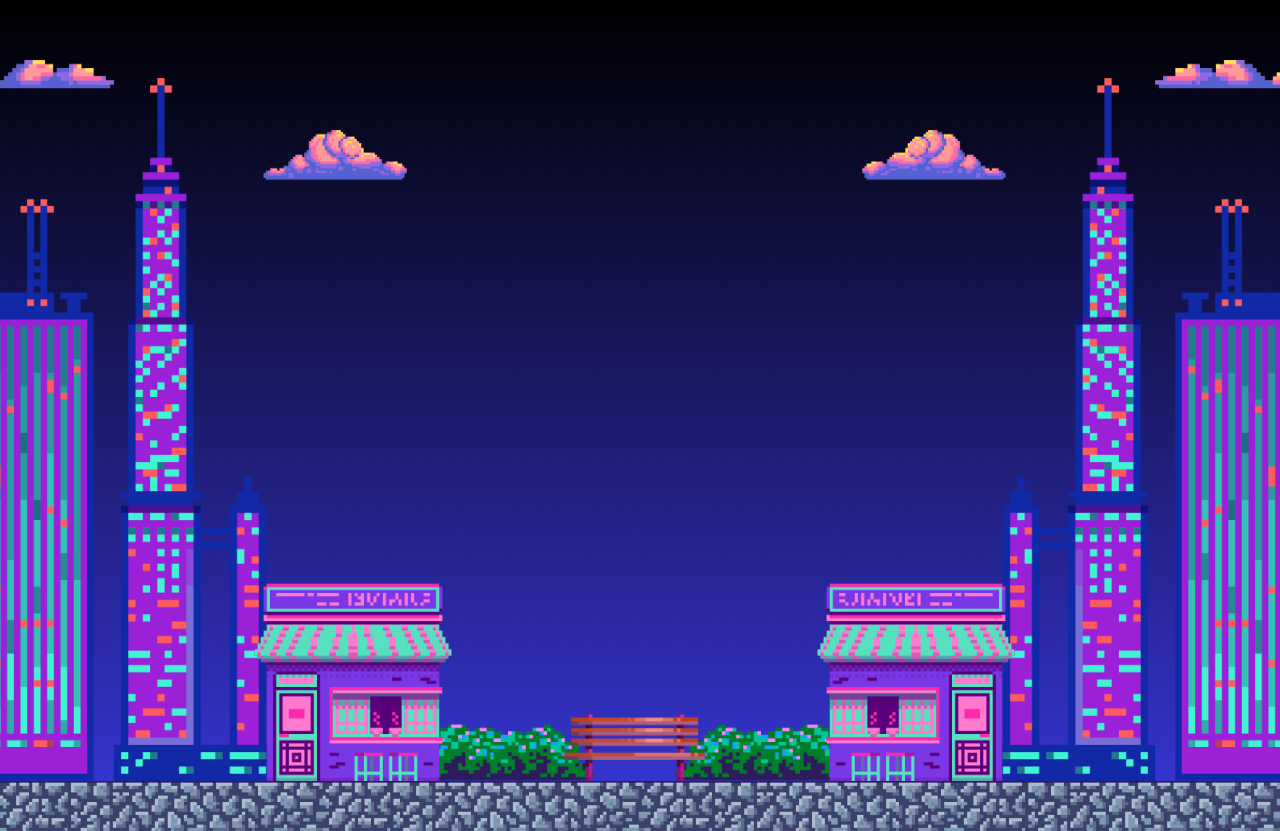
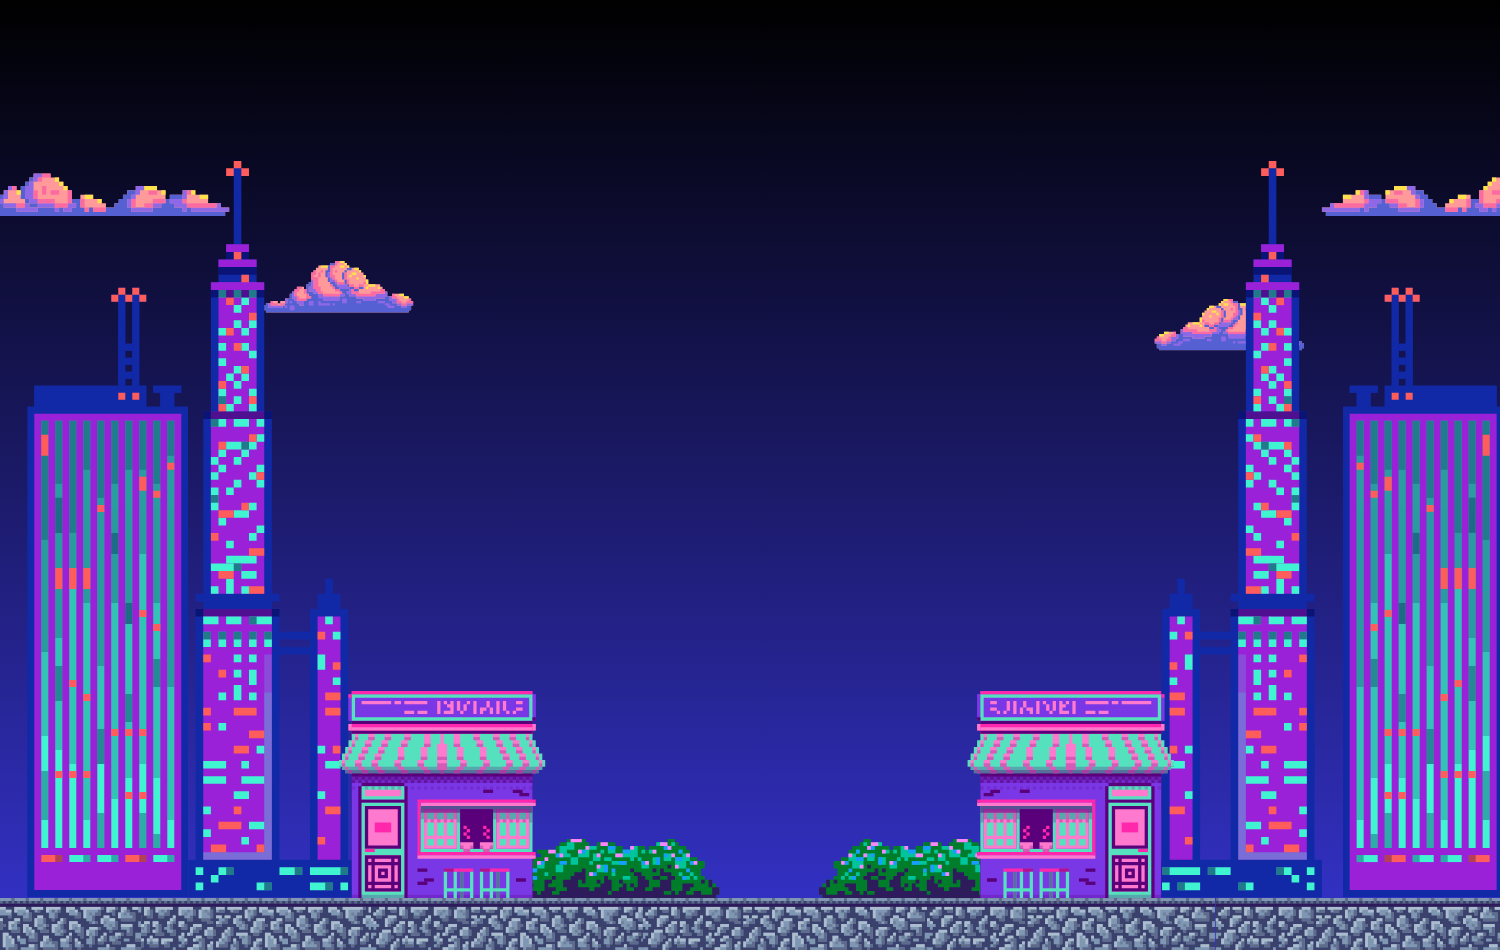
Adjunto  mi trabajo xD

diff --git a/css/estyle.css b/css/estyle.css
@@ -1,0 +1,235 @@
+*{
+    margin: 0;
+    padding: 0;
+}
+body {
+    background: url(/img/fondo1.png) no-repeat;
+    background-size: 100% 100%;
+    overflow: hidden;
+
+    font-family: "Silkscreen", sans-serif;
+    font-weight: 400;
+    font-style: normal;
+}
+.contenedor {
+    height: 100vh;
+    width: 100vw;
+    display: flex;
+    justify-content: center;
+    align-items: center;
+}
+
+.contenedor h1 {
+    position: relative;
+    bottom: 200px;
+    color: #fff;
+    text-align: center;
+    font-weight: 400;
+    font-size: 10em;
+    text-transform: uppercase;
+    width: 100vw;
+    padding: 20px;
+  }
+
+.contenedor img {
+    position: absolute; 
+    top: 60%; 
+    left: 50%;
+    transform: translate(-50%, -50%);
+    z-index: -1;
+    /* luego borrar el opacity */
+    opacity: 0; 
+}
+
+.contenedor img:hover {
+    opacity: 0.6;
+}
+
+.contenedor a {
+    display: inline-block;
+    text-decoration: none;
+    position: absolute; 
+    top: 50%;
+    left: 50%;
+    transform: translateX(-50%);
+    color: #fff;
+    font-size: 3em;
+
+    image-rendering: optimizeSpeed;
+    background-color: bisque;
+    width: 200px;
+    padding: 0 70px;
+    border-radius: 40px;
+}
+
+.contenedor a:hover {
+}
+
+/* Responsive */
+
+@media (max-width: 1024px) {
+    .contenedor h1  {
+        font-size: 5.5em;
+}
+    body {
+        background: url(/img/fondo1MediaPantalla.png) no-repeat;
+        background-size: cover;
+    }
+
+.contenedor img { 
+    width: 8em;
+}
+.contenedor a { 
+    font-size: 1.5em;
+}
+}
+
+
+@media (max-width: 768px) {
+    body {
+        background:url(/img/fondo1PantallaPequeña.png);
+        background-size: cover;
+    }
+    .contenedor h1  {
+        font-size: 4em;
+    }
+    .contenedor img {
+        top: 50%; 
+        left: 50%;
+        z-index: -1;
+        width: 8em;
+    }
+    
+    .contenedor a {
+        font-size: 1.5em;
+    }
+}
+
+@media (max-width: 500px) {
+    .contenedor h1  {
+        font-size: 3.5em;
+        
+}
+}
+
+
+.container {
+  margin: 50px;
+  display: block;
+  width: 400px;
+  margin-left: auto;
+  margin-right: auto;
+  text-align: center;
+}
+
+.pixel, .pixel2 {
+  font-size: 25px;
+  color: white;
+  height: auto;
+  margin: 10px;
+  font-family: 'VT323';
+  
+  position: relative;
+  display: inline-block;
+  vertical-align: top;
+  text-transform: uppercase;
+  
+  cursor: pointer;
+  
+  -webkit-touch-callout: none;
+  -webkit-user-select: none;
+  -khtml-user-select: none;
+  -moz-user-select: none;
+  -ms-user-select: none;
+  user-select: none;
+}
+
+.pixel:active, .pixel2:active {
+  top: 2px;
+}
+
+.pixel {
+  line-height: 0;
+  
+  image-rendering: optimizeSpeed;
+  image-rendering: -moz-crisp-edges; /* Firefox */
+  image-rendering: -o-crisp-edges; /* Opera */
+  image-rendering: -webkit-optimize-contrast; /* Webkit (non-standard naming) */
+  image-rendering: crisp-edges;
+  -ms-interpolation-mode: nearest-neighbor; /* IE (non-standard property) */
+  
+  border-style: solid;
+  border-width: 20px;
+  -moz-border-image: url(https://i.imgur.com/sREM8Yn.png) 20 stretch;
+  -webkit-border-image: url(https://i.imgur.com/sREM8Yn.png) 20 stretch;
+  -o-border-image: url(https://i.imgur.com/sREM8Yn.png) 20 stretch;
+  border-image: url(https://i.imgur.com/sREM8Yn.png) 20 stretch;
+}
+
+.pixel p {
+  display: inline-block;
+  vertical-align: top;
+  position: relative;
+  width: auto;
+  text-align: center;
+  margin: -20px -20px;
+  line-height: 20px;
+  padding: 10px 20px;
+  
+	background: #000000;
+	background:
+		linear-gradient(135deg, transparent 10px, #000000 0) top left,
+		linear-gradient(225deg, transparent 10px, #000000 0) top right,
+		linear-gradient(315deg, transparent 10px, #000000 0) bottom right,
+		linear-gradient(45deg,  transparent 10px, #000000 0) bottom left;
+	background-size: 50% 50%;
+	background-repeat: no-repeat;
+	background-image:
+		radial-gradient(circle at 0 0, rgba(204,0,0,0) 14px, #000000 15px),
+		radial-gradient(circle at 100% 0, rgba(204,0,0,0) 14px, #000000 15px),
+		radial-gradient(circle at 100% 100%, rgba(204,0,0,0) 14px, #000000 15px),
+		radial-gradient(circle at 0 100%, rgba(204,0,0,0) 14px, #000000 15px);
+}
+
+.pixel2 {
+  position: relative;
+  display: block;
+  margin: 10px;
+  font-family: 'VT323';
+  text-transform: uppercase;
+  
+  font-size: 25px;
+  color: white;
+}
+
+.pixel2::before {
+  content: "";
+  display: block;
+  position: absolute;
+  top: 10px;
+  bottom: 10px;
+  left: -10px;
+  right: -10px;
+  background: black;
+  z-index: -1;
+}
+
+.pixel2::after {
+  content: "";
+  display: block;
+  position: absolute;
+  top: 4px;
+  bottom: 4px;
+  left: -6px;
+  right: -6px;
+  background: black;
+  z-index: -1;
+}
+
+.pixel2 {
+  padding: 10px 10px;
+  position: relative;
+  background: black;
+  width: auto;
+  z-index: 2;
+}

diff --git a/html/inicio.html b/html/inicio.html
@@ -1,0 +1,23 @@
+<!DOCTYPE html>
+<html lang="en">
+<head>
+    <meta charset="UTF-8">
+    <meta name="viewport" content="width=device-width, initial-scale=1.0">
+    <link rel="preconnect" href="https://fonts.googleapis.com">
+    <link rel="preconnect" href="https://fonts.gstatic.com" crossorigin>
+    <link href="https://fonts.googleapis.com/css2?family=Silkscreen:wght@400;700&display=swap" rel="stylesheet">
+    <link rel="stylesheet" href="/css/estyle.css">
+    <title>Document</title>
+</head>
+<body>
+    <div class="contenedor">
+        <div class="contedor1">
+            <h1 class="titulo"></h1>
+            <!-- En el ( # ) se adjunta el link del otro html que se cree, para iniciar los juegos -->
+            <a href="#">Start<img src="/img/cuadroTexto1.png" alt="" class="cuadroTexto1"></a> 
+        </div>
+    </div>
+
+    <script src="/javaScript/bienvenida.js"></script>
+</body>
+</html>

diff --git a/javaScript/bienvenida.js b/javaScript/bienvenida.js
@@ -1,0 +1,21 @@
+const mensaje = document.querySelector(".titulo");
+let texto = "Welcome";
+
+// Funcion para hacer el efecto de escritura
+function efecto (elemento, texto, i = 0){
+    if (i < texto.length){
+        elemento.textContent += texto [i];
+        setTimeout(() => efecto(elemento,texto, i + 1), 600);
+    } else {
+        setTimeout(() => borrarTexto(elemento), 1000);
+    }
+}
+
+// Funcion para borrar el efecto y produzca un bucle
+function borrarTexto (elemento){
+    elemento.textContent = ' ';
+    setTimeout(() => efecto(elemento, texto), 800);
+}
+
+// Ejecutar la funcion texto
+efecto(mensaje,texto);

diff --git a/README.md b/README.md
@@ -1,2 +1,2 @@
 "# Buscaminas" 
-Hola soy cristian :D 
+ 
